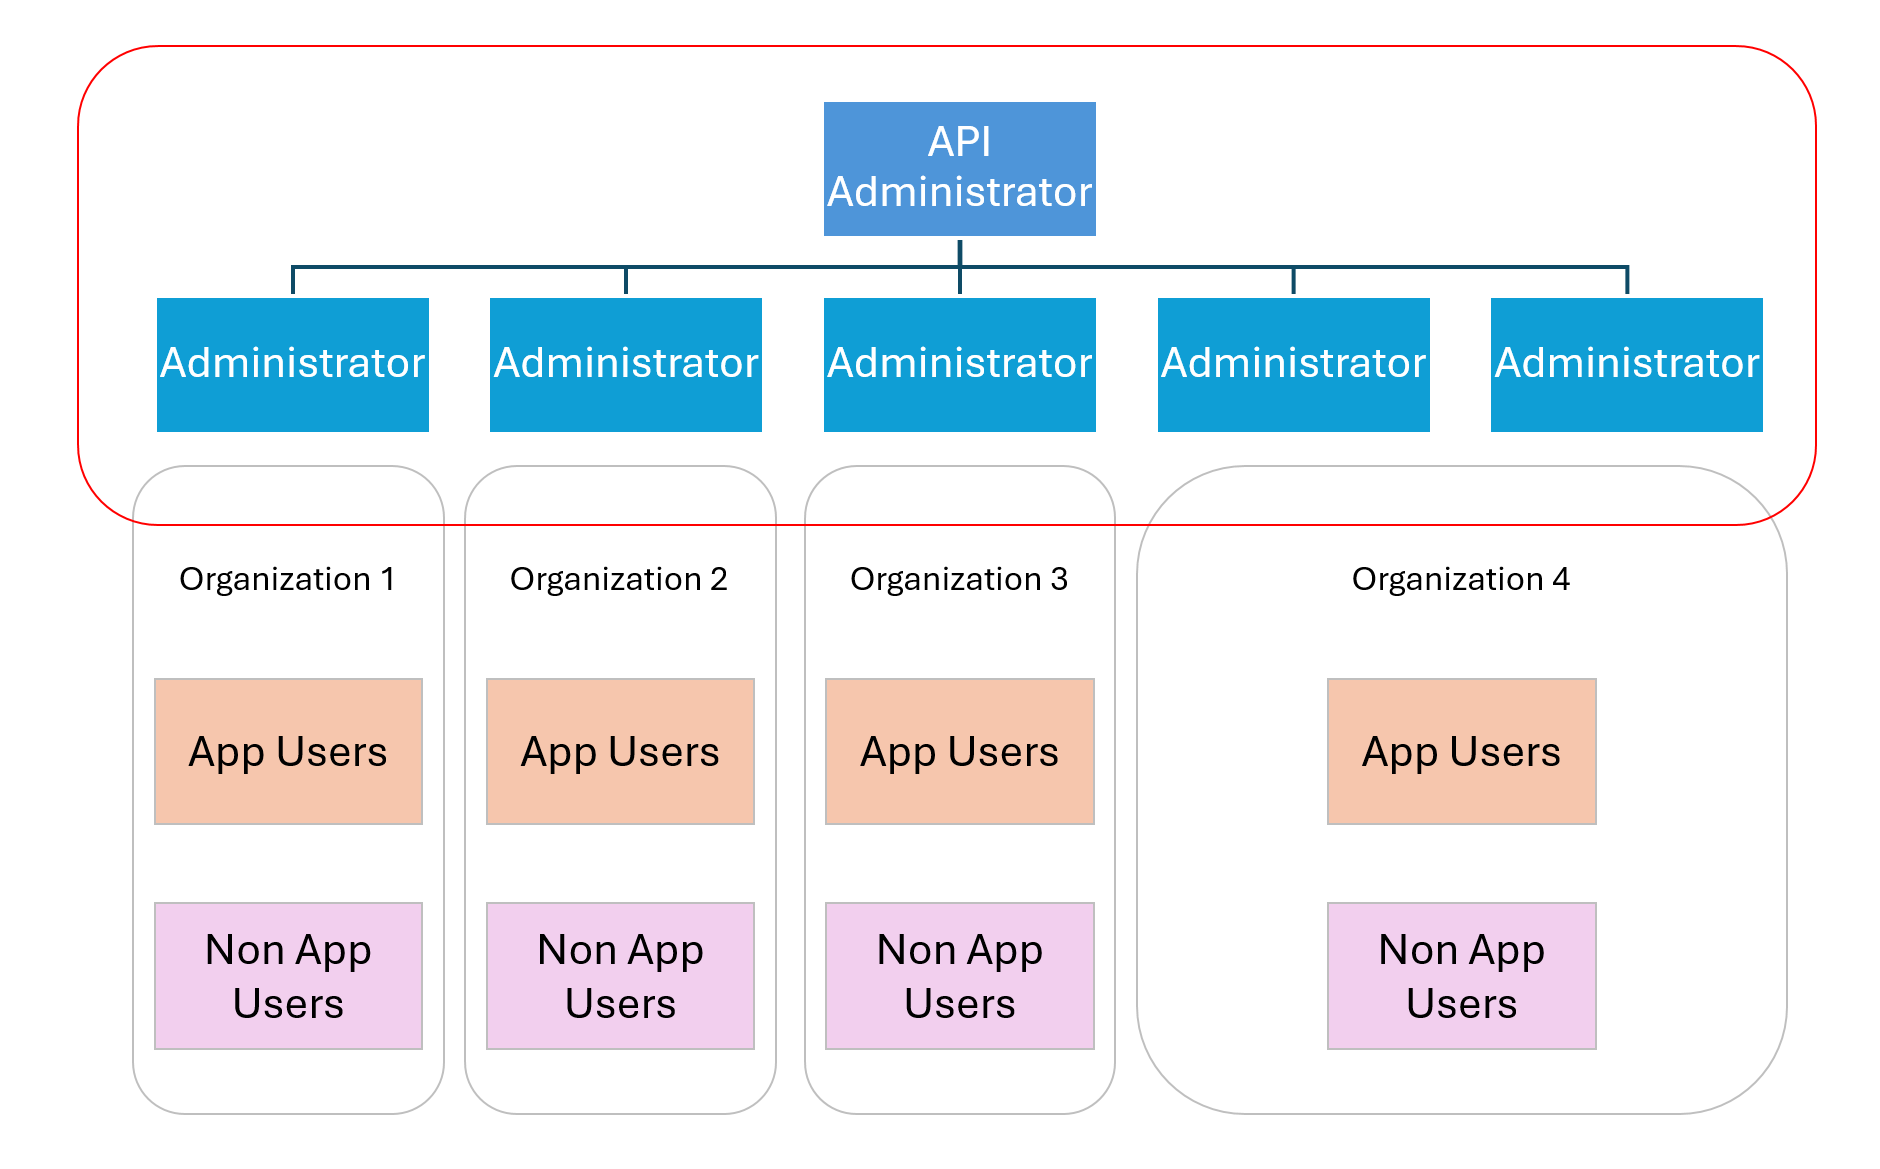
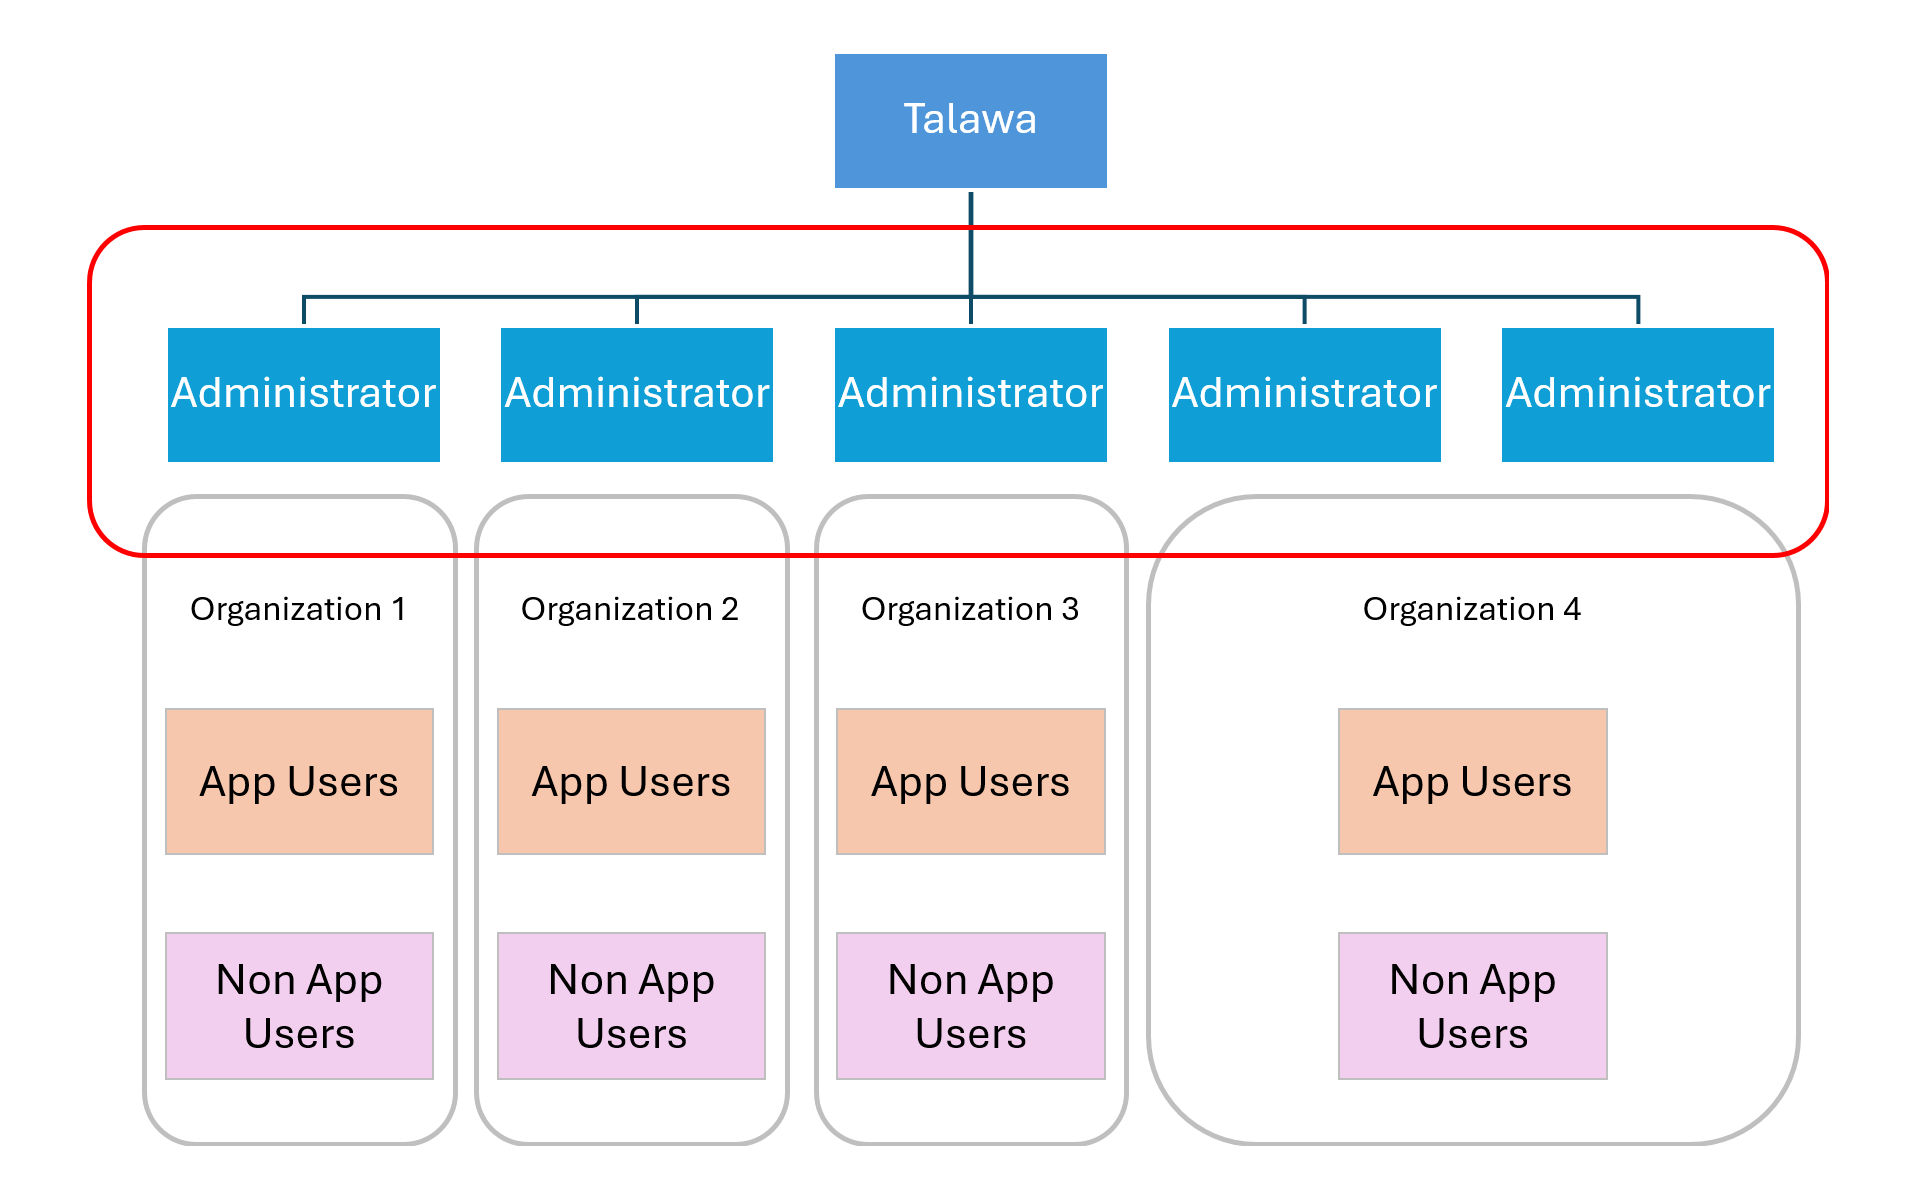
Updated explanation of administrtors (#973)

diff --git a/docs/getting-started/concepts.md b/docs/getting-started/concepts.md
@@ -64,25 +64,11 @@ This approach was taken because MongoDB had limited RDBMS capabilities and this 
 
 ### Administrators
 
-Say for example that a chain of non-profit community centers with branches in multiple neighborhoods decides to use Talawa. They have a large membership across the region but, each member tends to use only their local community center. From time to time members move into new neighborhoods where they decide to switch their membership to their new local branch.
-
-The VP of community relations would want to be the API Administrator as they would be able to add new branches as they were established. The VP would then delegate the management of community relations to each branch manager who would then become an Administrator for their local membership.
-
-The VP doesn’t want the branch managers to manage the members who have joined other branches, just the branch they are running.
-
-It is for this reason that we have two types of Administrators. Administrators and API Administrators.
-
-1. **Administrator**: These are members who use Talawa-Admin to manage the people in an organization. This would also include organization calendars and the organization's news feed. Administrators can:
+These are members who use Talawa-Admin to manage the people in an organization. This would also include organization calendars and the organization's news feed. Administrators can:
 
    1. Manage all organizations.
       1. It is a universal privilege. Administrators cannot be selectively assigned to organizations at this time.
    2. Promote users to Administrator status
-
-2. **API Administrator**: There is only one API Administrator to manage all organizations in a community. API Administrators:
-   1. Can promote App User Members to Administrator status.
-   2. Have access to all the privileges of an Administrator.
-
-Like other people, an Administrator may or may not have joined an organization in the mobile app.
 
 ## Talawa Application Users
 
